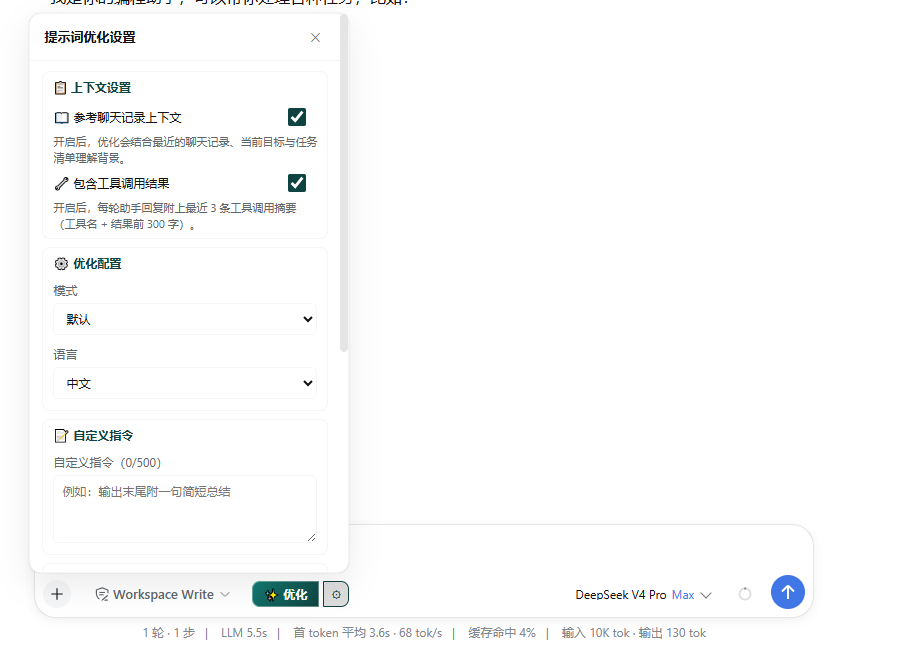
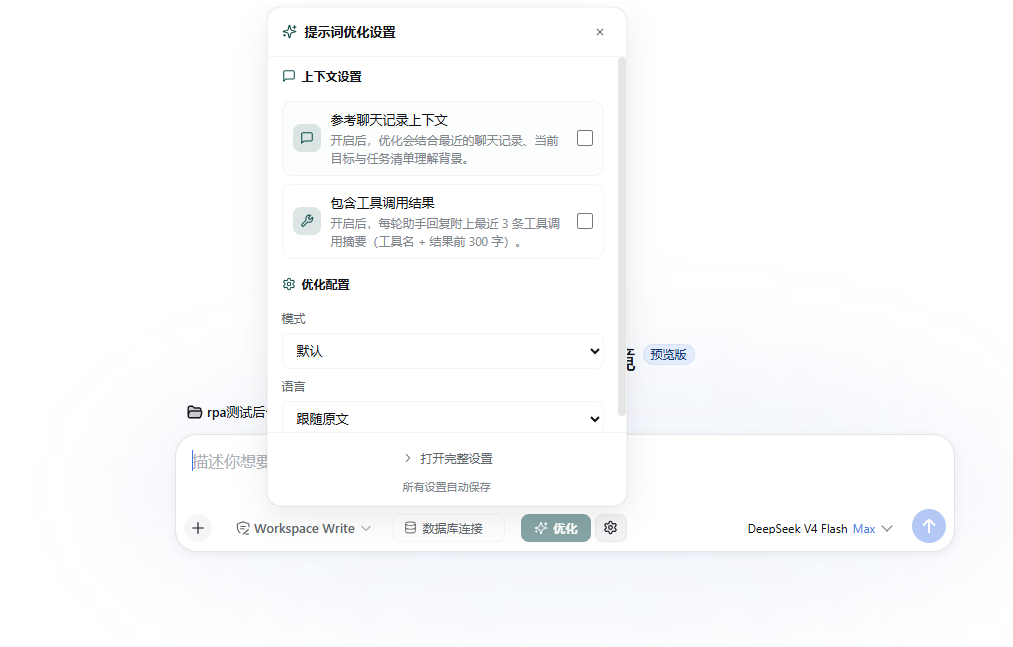
chore: bump to 0.3.0 and refresh docs and screenshots

diff --git a/README.md b/README.md
@@ -2,11 +2,13 @@
 
 English | [中文](README.zh-CN.md)
 
-Input-bar prompt optimizer for DeepSeek Harness (DSH): an **✨ Optimize** button that rewrites your draft into a clearer, more specific, more executable prompt — optionally grounded in the current session's context.
+Input-bar prompt optimizer for DeepSeek Harness (DSH): an **Optimize** button that rewrites your draft into a clearer, more specific, more executable prompt — optionally grounded in the current session's context.
 
 - 6 strategies × 3 languages plus custom instructions
 - Optional context: goal, todo list, compaction summary, tool results, conversation history
-- Confirm dialog (Adopt / Keep draft / Later) — the draft is never silently overwritten
+- Two-level settings: quick popover (context toggles + mode/language) and a full dialog (custom instructions, carry stats, history, persistence note)
+- Result confirm popover (Adopt optimized result / Keep draft / Later) — the draft is never silently overwritten
+- Cancel while optimizing (spinner + stop), failure retry, transient status hints
 - Last-5 optimization history (review / refill / delete)
 - Composer freeze while optimizing, with dual timeouts
 - Three-tier settings persistence (browser L1 → settings row L2 → workspace file L3)
@@ -14,7 +16,7 @@ Input-bar prompt optimizer for DeepSeek Harness (DSH): an **✨ Optimize** butto
 ## Install
 
 ```sh
-dsh plugin --profile web add github:1321928757/dsh-prompt-polish#v0.2.1
+dsh plugin --profile web add github:1321928757/dsh-prompt-polish#v0.3.0
 ```
 
 Or from npm (once published):
@@ -26,10 +28,10 @@ dsh plugin --profile web add dsh-prompt-polish
 PowerShell one-liner (bootstraps pnpm, pins versions, self-checks):
 
 ```powershell
-irm https://raw.githubusercontent.com/1321928757/dsh-prompt-polish/v0.2.1/scripts/install.ps1 | iex
+irm https://raw.githubusercontent.com/1321928757/dsh-prompt-polish/v0.3.0/scripts/install.ps1 | iex
 ```
 
-Restart `dsh web` and the **✨ Optimize** button appears on the left of the composer. Verify:
+Restart `dsh web` and the **Optimize** button appears on the left of the composer. Verify:
 
 ```sh
 dsh --profile web --dump-config | findstr dsh-prompt-polish
@@ -43,8 +45,8 @@ Uninstall: `dsh plugin --profile web remove dsh-prompt-polish`
 
 | Entry | What it does |
 | --- | --- |
-| Composer **✨ Optimize** | Rewrites the draft with the current strategy; includes session context when 📖 is on |
-| Composer **⚙** | Settings panel: 📖 context toggle, 🔧 tool-results toggle, mode, language, custom instructions, optimization history, carry stats |
+| Composer **Optimize** | Rewrites the draft with the current strategy; includes session context when the context toggle is on; while running, it becomes **Stop** to cancel |
+| Composer **gear** | Quick settings popover: context toggle, tool-results toggle, mode, language, and a link to the full settings dialog |
 | Settings page row | L2 settings row, linked with the panel toggles |
 
 Modes: **Default** (disambiguate and fix) / Concise / Structured (目标·背景·要求·期望输出) / Creative / Translate / Code request. Languages: follow draft / Chinese / English (target language in Translate mode).
@@ -53,15 +55,15 @@ Modes: **Default** (disambiguate and fix) / Concise / Structured (目标·背景
 
 ## Screenshots
 
-Composer with the ✨ Optimize button and the ⚙ settings toggle:
+Composer with the Optimize button and the settings toggle:
 
 ![Composer with the Optimize button](assets/composer.png)
 
-Optimization result confirm dialog (Adopt / Keep draft / Later):
+Optimization result confirm popover (Adopt optimized result / Keep draft / Later):
 
 ![Optimization confirm dialog](assets/dialog.png)
 
-Settings panel (context toggles, mode, language, custom instructions, optimization history):
+Settings: quick popover and the full settings dialog (context toggles, mode, language, custom instructions, optimization history):
 
 ![Settings panel](assets/settings.png)
 

diff --git a/README.zh-CN.md b/README.zh-CN.md
@@ -2,11 +2,13 @@
 
 [English](README.md) | 中文
 
-DeepSeek Harness（DSH）输入栏提示词优化插件：一个 **✨ 优化** 按钮，一键把草稿重写为更清晰、更具体、更可执行的提示词，并可选携带当前会话的背景信息。
+DeepSeek Harness（DSH）输入栏提示词优化插件：一个 **优化** 按钮，一键把草稿重写为更清晰、更具体、更可执行的提示词，并可选携带当前会话的背景信息。
 
 - 6 种策略 × 3 种语言 + 自定义指令
 - 可选上下文：目标、任务清单、压缩摘要、工具结果、对话历史
-- 结果确认弹窗（采用 / 保留原稿 / 稍后再看），绝不静默覆盖草稿
+- 两级设置：轻量弹层（上下文开关 + 模式/语言）+ 完整设置弹窗（自定义指令、携带统计、历史、持久化说明）
+- 结果确认弹窗（采用优化结果 / 保留原稿 / 稍后再看），绝不静默覆盖草稿
+- 优化中可停止（spinner + 停止按钮），失败可重试，瞬时状态提示
 - 最近 5 次优化历史（回看 / 回填 / 删除）
 - 优化期间冻结输入框，双超时防卡死
 - 三级设置持久化（浏览器 L1 → 设置页行 L2 → 工作区文件 L3）
@@ -14,7 +16,7 @@ DeepSeek Harness（DSH）输入栏提示词优化插件：一个 **✨ 优化** 
 ## 安装
 
 ```sh
-dsh plugin --profile web add github:1321928757/dsh-prompt-polish#v0.2.1
+dsh plugin --profile web add github:1321928757/dsh-prompt-polish#v0.3.0
 ```
 
 或从 npm 安装（发布后可用）：
@@ -26,10 +28,10 @@ dsh plugin --profile web add dsh-prompt-polish
 PowerShell 一键安装（自动补齐 pnpm、固定版本、装完自检）：
 
 ```powershell
-irm https://raw.githubusercontent.com/1321928757/dsh-prompt-polish/v0.2.1/scripts/install.ps1 | iex
+irm https://raw.githubusercontent.com/1321928757/dsh-prompt-polish/v0.3.0/scripts/install.ps1 | iex
 ```
 
-装完重启 `dsh web`，输入栏左侧即出现 **✨ 优化** 按钮。验证：
+装完重启 `dsh web`，输入栏左侧即出现 **优化** 按钮。验证：
 
 ```sh
 dsh --profile web --dump-config | findstr dsh-prompt-polish
@@ -43,9 +45,9 @@ dsh --profile web --dump-config | findstr dsh-prompt-polish
 
 | 入口 | 功能 |
 | --- | --- |
-| 输入栏 **✨ 优化** | 按当前策略重写草稿；📖 开关开启时携带会话背景 |
-| 输入栏 **⚙** | 设置面板：📖 上下文开关、🔧 工具结果开关、模式、语言、自定义指令、优化历史、本次携带统计 |
-| 设置页「📖 参考聊天记录上下文」 | L2 设置行，与面板开关联动 |
+| 输入栏 **优化** | 按当前策略重写草稿；开启「参考聊天记录上下文」时携带会话背景；优化中按钮变为 **停止** 可取消 |
+| 输入栏 **设置齿轮** | 轻量设置弹层：上下文开关、工具结果开关、模式、语言，以及「打开完整设置」 |
+| 设置页「参考聊天记录上下文」 | L2 设置行，与弹层开关联动 |
 
 模式：**默认**（消歧修正）/ 压缩精简 / 结构化（目标·背景·要求·期望输出）/ 创意扩展 / 翻译 / 代码请求。语言：跟随原文 / 中文 / 英文（翻译模式下为目标语言）。
 
@@ -53,7 +55,7 @@ dsh --profile web --dump-config | findstr dsh-prompt-polish
 
 ## 截图
 
-输入栏的 ✨ 优化按钮与 ⚙ 设置入口：
+输入栏的 优化 按钮与 设置齿轮 入口：
 
 ![输入栏优化按钮](assets/composer.png)
 
